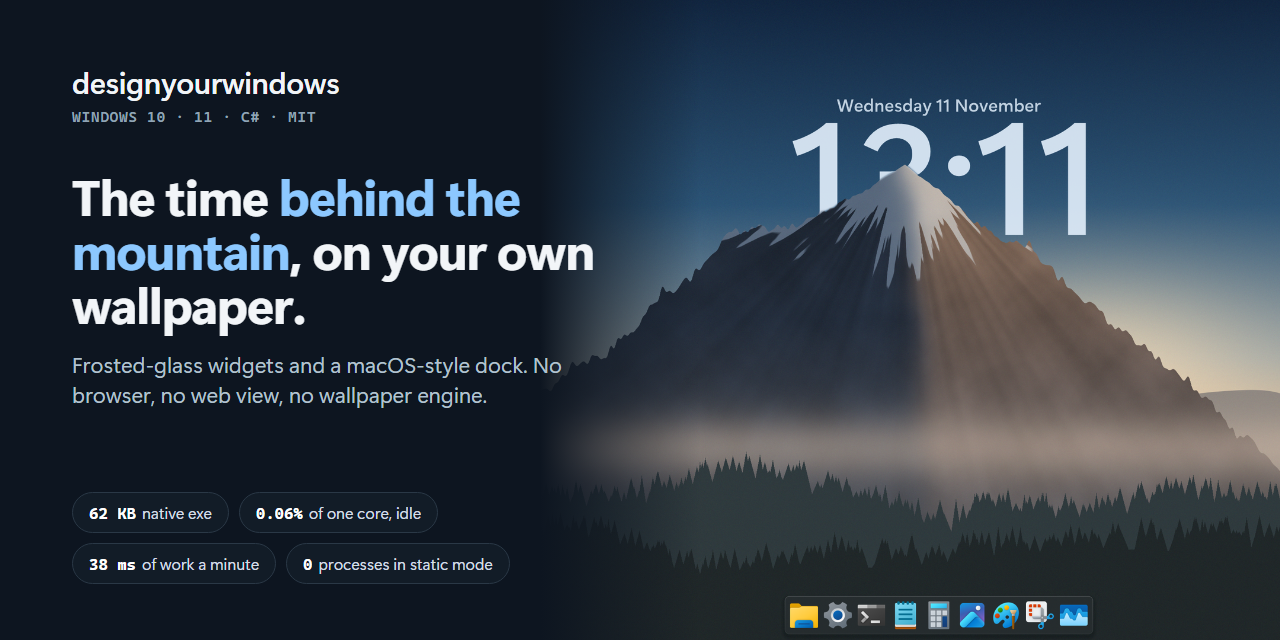
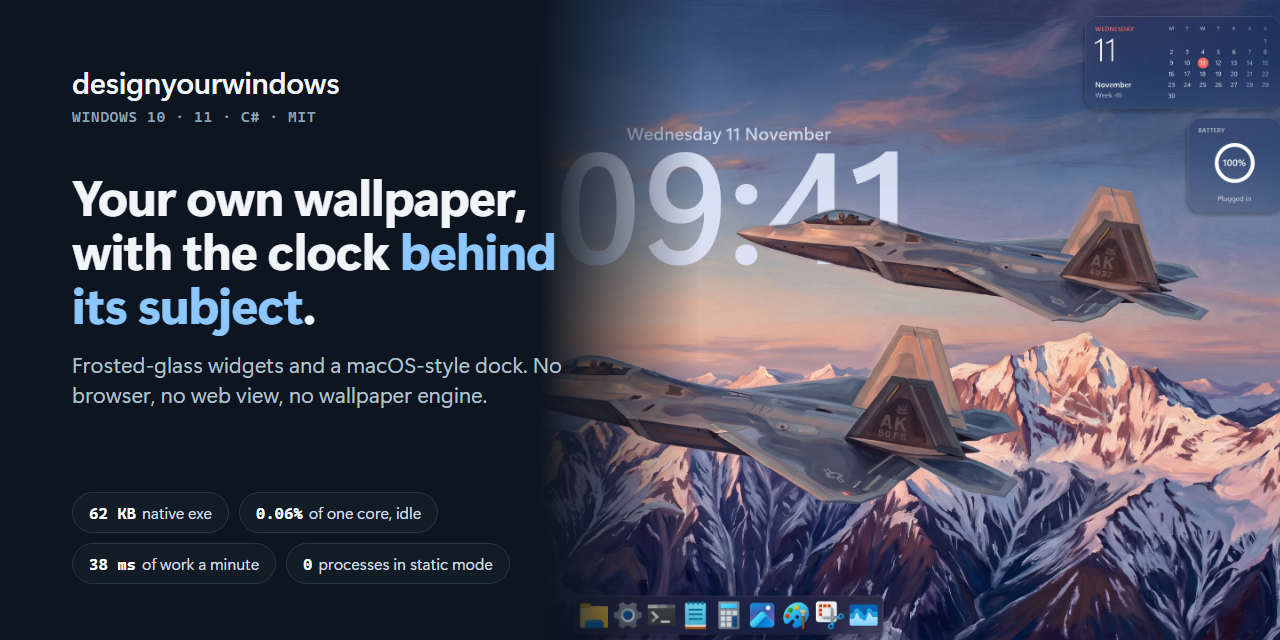
README: F-22 hero, three proof points, honest quick start, visual How it works
The hero is an oil-paint repaint of a public-domain U.S. Air Force photo, rendered by the real exe and credited.
Old screenshots replaced; *.webp under docs/screens is no longer ignored, so the README's images ship.

diff --git a/README.md b/README.md
@@ -1,57 +1,65 @@
 # designyourwindows
 
+**Your own wallpaper with the clock behind its subject: the iPhone depth-clock look on Windows, from one 62 KB exe.**
+
 [![build](https://github.com/Sohwhat6420/designyourwindows/actions/workflows/build.yml/badge.svg)](https://github.com/Sohwhat6420/designyourwindows/actions/workflows/build.yml)
 ![licence: MIT](https://img.shields.io/badge/licence-MIT-blue)
 ![Windows 10 and 11](https://img.shields.io/badge/Windows-10%20%7C%2011-0078D4)
-![exe: 62 KB](https://img.shields.io/badge/exe-62%20KB-555)
-![idle CPU: 0.06% of one core](https://img.shields.io/badge/idle%20CPU-0.06%25%20of%20one%20core-2ea44f)
 
-A clock behind the subject of your own wallpaper, frosted-glass widgets and a macOS-style dock, for Windows 10 and 11.
-One 62 KB native exe and one Python script. No browser, no web view, no live-wallpaper engine: the wallpaper is an
-ordinary bitmap that Windows draws as it always does.
+<img src="docs/screens/hero-f22.webp" width="100%" alt="A Windows desktop: an oil painting of two F-22s over snow-capped mountains at dusk. The time, 09:41, sits behind the nearer jet and the peaks; a calendar and a battery panel in frosted glass sit top right, and a dock of Windows apps sits at the bottom.">
 
-![The desktop in minute mode: the time sits behind the mountain, with the calendar, battery and weather widgets on the right and the dock at the bottom](docs/screens/desktop-minute.png)
+<sub>One frame from the exe's own <code>--render</code>, 2560 × 1440. The painting is an oil-paint repaint, made with
+an image model, of a public-domain U.S. Air Force photo
+(<a href="https://commons.wikimedia.org/wiki/File:F-22_Raptor_pair_over_Alaska_-_081010-F-1234X-924.jpg">F-22 Raptors over Alaska</a>);
+no endorsement by the U.S. Air Force is implied.</sub>
 
-*Minute mode at 1920 × 1080. The time, date, battery and weather are real readings taken when the frame was drawn.
-The dock in this image is the exe's own preview render of the dock window (see [Screenshots](#screenshots)).*
+- **It is an ordinary wallpaper.** There is no browser, web view or live-wallpaper engine. Windows draws a plain bitmap, and
+  once a minute the exe rewrites only the strip of pixels behind the time.
+- **0.057 % of one core.** Once a minute it redraws the strip behind the time, then sleeps on a kernel timer. Static mode leaves no
+  process running at all ([measurements](#measurements)).
+- **It undoes itself.** One per-user scheduled task and no administrator rights; `--uninstall` puts your previous
+  wallpaper back.
 
-![Static mode: the word HELLO behind the mountain, with only the calendar](docs/screens/desktop-static.png)
+## Quick start (about 5 minutes; the first cut downloads about 320 MB of models)
 
-*Static mode: your own text, drawn once. Nothing is left running, so the frame shows only what cannot go stale
-before midnight: the calendar.*
+```powershell
+git clone https://github.com/Sohwhat6420/designyourwindows; cd designyourwindows
+powershell -ExecutionPolicy Bypass -File .\build.ps1   # writes bin\designyourwindows.exe with Windows' own compiler
+python -I make-layers.py C:\path\to\your-image.jpg     # cuts your image (needs the two models: see Install)
+.\bin\designyourwindows.exe --install                  # runs now and at every sign-in
+```
 
-| Widgets | Dock |
-| --- | --- |
-| ![Calendar, battery and weather widgets on frosted glass](docs/screens/widgets.png) | ![The dock with Windows' own app icons](docs/screens/dock-preview.png) |
+## How it works
 
-![How the depth effect is made: the image, the cut-out subject, and the result with text between them](docs/screens/layers.png)
-
-*The image, the cut-out (subject plus the ground nearer than the sky) and the result: the text is drawn between them.*
-
-## What it does
-
-1. **Depth effect.** `make-layers.py` cuts your image into a plate and a foreground at your screen's size, using two
-   small models on the CPU. The exe draws the clock (or your text) on the plate and the foreground over it, so the
-   subject stands in front of the time.
-2. **macOS aesthetic.** Frosted-glass panels cut from a pre-blurred copy of your own wallpaper, Segoe UI Variable
-   (Windows' own typeface) on a real type scale, hairline edges and soft shadows; a borderless dock with rounded
-   corners and DWM acrylic.
-3. **Glass widgets.** The date, a month calendar (Monday first, today in red, ISO week number) and the battery.
-   Weather is off by default; turn it on and it reads [Open-Meteo](https://open-meteo.com), which needs no key, for
-   the latitude and longitude in `config.json`. Nothing personal is read or shown: no accounts, no events, no
-   location lookup.
-
-### Two modes, one switch
-
-`"mode"` in `config.json`:
-
-| Mode | What runs | What you see |
+| 1. Your image | 2. The cut | 3. The frame |
 | --- | --- | --- |
-| `"minute"` (default) | one small background process: it redraws the time strip once a minute and keeps the dock | the time and date behind the subject, calendar, battery, weather if on, the dock |
-| `"static"` | nothing: the exe draws one frame, sets it as the wallpaper and exits | your text (or the date) behind the subject and the calendar; no dock |
+| <img src="docs/screens/layer-1-plate.webp" alt="The painting on its own"> | <img src="docs/screens/layer-2-cut.webp" alt="Only the two jets and the peaks remain, on a checkerboard"> | <img src="docs/screens/layer-3-result.webp" alt="The finished frame with the time drawn between the sky and the jets"> |
+
+`make-layers.py` runs once per image. Two small models on the CPU find the subject
+([BiRefNet](https://github.com/ZhengPeng7/BiRefNet)) and everything nearer than the sky
+([Depth Anything V2 Small](https://github.com/DepthAnything/Depth-Anything-V2)). The script then places the clock where
+the cut covers part of the digits but none of their top half (16 % of the box in this frame), and takes the clock
+colour from the sky behind it. The exe draws the plate, then the time, then the cut over it.
+
+The frosted panels are cut from a blurred copy of the same image, made once, so they cost nothing at run time and
+look like glass because they really are the picture behind them. The dock is the only live surface; its blur comes
+from the desktop compositor on the GPU, not from this process.
+
+### Two modes
+
+| Minute mode | Static mode |
+| --- | --- |
+| <img src="docs/screens/layer-3-result.webp" alt="Minute mode: the time behind the jets, the calendar, battery and dock"> | <img src="docs/screens/static-f22.webp" alt="Static mode: the date, 11 November, behind the nearer jet, with only the calendar panel"> |
+
+| `"mode"` in `config.json` | What runs | What you see |
+| --- | --- | --- |
+| `"minute"` (default) | one small process that redraws the time strip once a minute and keeps the dock | the time and date behind the subject, the calendar, the battery, the weather if you turn it on, the dock |
+| `"static"` | nothing: the exe draws one frame, sets it and exits | your own text, or the date, behind the subject, and the calendar |
 
 In static mode, `--install` also re-renders at 00:00:30 every day so the date and calendar stay right. Battery and
-weather are left out of the static frame on purpose: a frame drawn once would show a reading that is soon wrong.
+weather are left out of the static frame on purpose: a frame drawn once would soon show a stale reading. Weather is off
+by default; turned on, it reads [Open-Meteo](https://open-meteo.com) (no key) for the latitude and longitude in
+`config.json`. Nothing personal is read or shown: no accounts, no events, no location lookup.
 
 ## Install
 
@@ -89,8 +97,8 @@ size in physical pixels. Options: `--size 2560x1440` for another size,
 for a narrower clock box. A landscape image with a clear subject in the lower half and sky above works best; the
 script places the clock box where the subject covers the lower part of the digits and leaves them readable.
 
-No image to hand? `python -I make-layers.py --sample sample.png` draws the procedural mountain used in these
-screenshots; run it through `make-layers.py` like any other image.
+No image to hand? `python -I make-layers.py --sample sample.png` draws a procedural mountain to try it on; run it
+through `make-layers.py` like any other image.
 
 ### Run
 
@@ -162,19 +170,6 @@ Icons are read from Windows at run time, so nothing is bundled.
 ] }
 ```
 
-## Why this is the lightest design that still looks premium
-
-Windows already composites the wallpaper on every frame for free, so the cheapest live wallpaper is an ordinary one
-that changes once a minute. designyourwindows renders the full frame once when it starts, keeps only the strip of
-pixels behind the time and the widget panels in memory, and each minute redraws that strip and writes just those rows
-into the bitmap in one file write: 38 ms of work, then the process sleeps on a kernel timer until the next minute
-boundary, with no polling. The frosted glass costs nothing at run time because it is cut from a blurred copy of your
-own wallpaper made once by `make-layers.py`; it reads as glass because it really is the image behind it. The dock is
-the only live surface, and its blur is done by the desktop compositor on the GPU, not by this process. Static mode goes
-further and leaves nothing running at all. What makes it look premium is not effects but care: a real depth cut,
-Windows' own variable typeface on a consistent type scale, hairline edges and shadows, colour taken from the image,
-and widgets that only show data that is true at the moment you see it.
-
 ## Measurements
 
 Idle cost after start-up, measured on an Acer Nitro AN517-55 (Intel Core i7-12700H, 20 logical processors, 32 GB),
@@ -213,14 +208,6 @@ Each test set a new or rewritten bitmap with `SPI_SETDESKWALLPAPER` while a hidd
 So the first wallpaper set of a run persists it and tells other apps (both flags), and every per-minute update after
 it passes `0`: the desktop repaints, nothing is written to the registry and no window is woken.
 
-## Screenshots
-
-Every image in `docs/screens/` was made on this machine from art drawn by code: the mountain is
-`make-layers.py --sample`, cut by the same pipeline you run. The icons are Windows' own system and inbox app icons,
-read at run time. The desktop images are frames the exe rendered with `--render`; `dock-preview.png` is the exe's
-preview of the dock (the same icons, sizes and tint over the glass), because the live dock was checked on a desktop
-with other windows behind it.
-
 ## Files
 
 | Path | What it is |
@@ -229,7 +216,7 @@ with other windows behind it.
 | `src/DesignYourWindows.cs`, `src/app.manifest` | the exe: compositor, minute engine, widgets, dock, install and uninstall |
 | `build.ps1` | builds `bin\designyourwindows.exe` with Windows' own C# compiler |
 | `config.json`, `dock.json` | examples to edit |
-| `docs/screens/` | the screenshots above |
+| `docs/screens/` | the images above: frames the exe rendered with `--render` from layers `make-layers.py` cut |
 | `docs/sweep.md` | the privacy and secrets sweep run before publishing |
 
 ## Credits and licence
